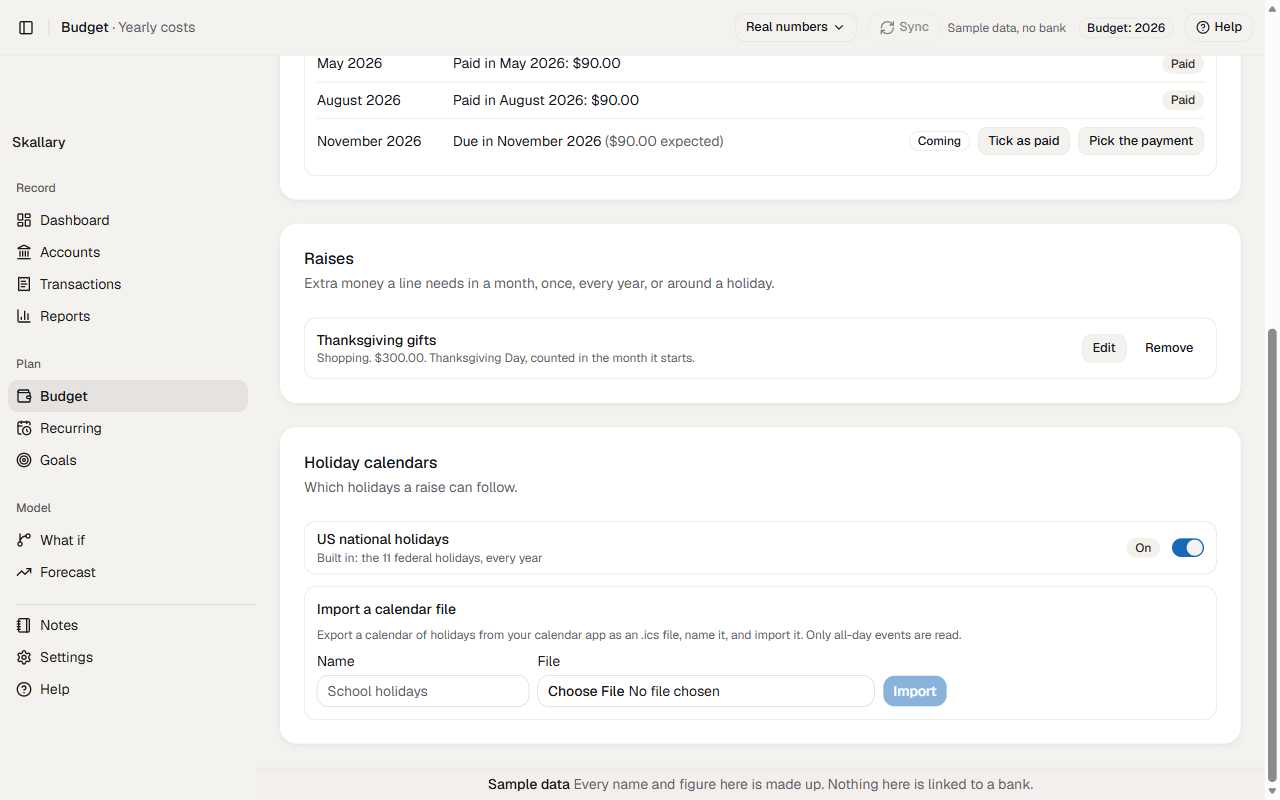
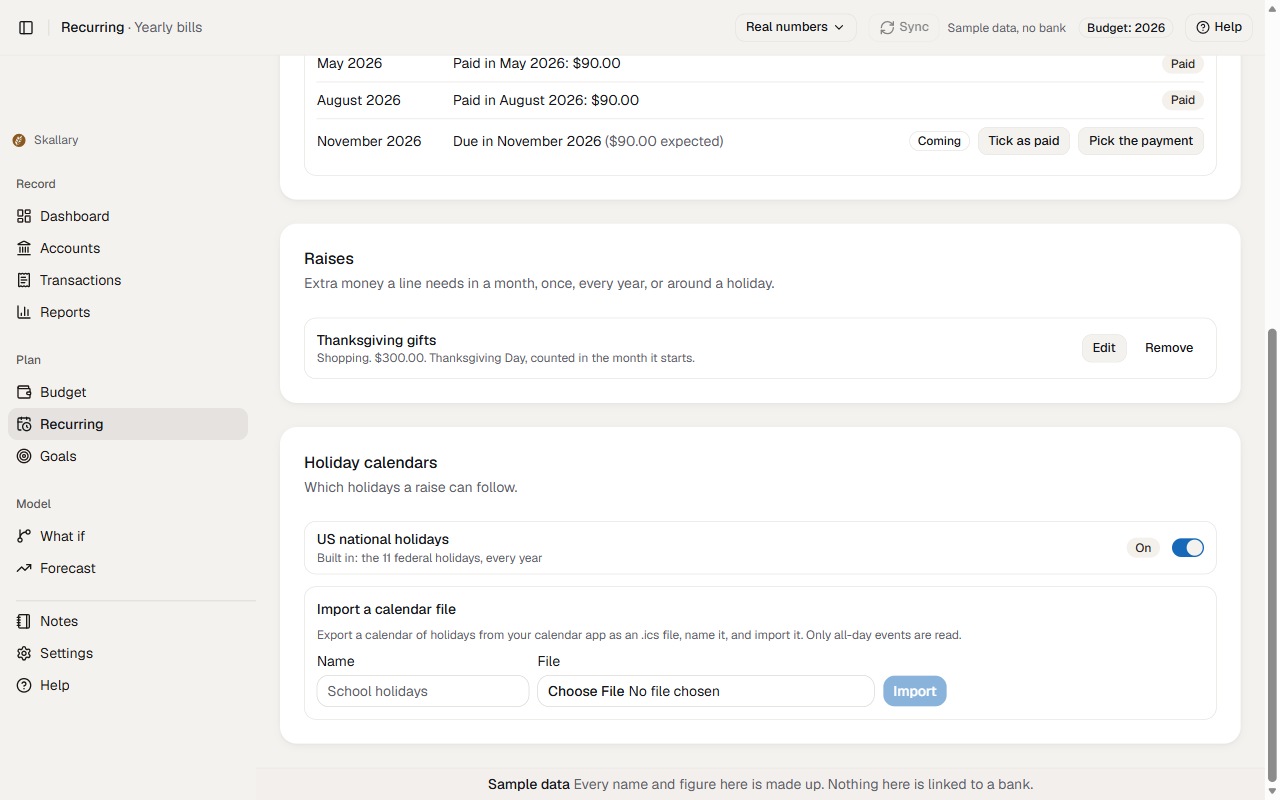
Move yearly bills to the Recurring screen

diff --git a/src/ui/shell/nav.ts b/src/ui/shell/nav.ts
@@ -88,12 +88,21 @@ export const NAV: NavItem[] = [
       // Month replaces the old Table; old #/budget/table links land here.
       { id: "month", label: "Month" },
       { id: "year", label: "Year" },
-      { id: "yearly", label: "Yearly costs" },
       { id: "charts", label: "Charts" },
     ],
   },
   // Bills became Recurring. Old links land here (ROUTE_ALIASES).
-  { id: "recurring", label: "Recurring", icon: CalendarClockIcon, group: "plan" },
+  {
+    id: "recurring",
+    label: "Recurring",
+    icon: CalendarClockIcon,
+    group: "plan",
+    tabs: [
+      { id: "charges", label: "Charges" },
+      // Yearly bills moved here from Budget (old #/budget/yearly links land here, see TAB_ALIASES).
+      { id: "yearly", label: "Yearly bills" },
+    ],
+  },
   {
     id: "goals",
     label: "Goals",
@@ -179,6 +188,11 @@ export const ROUTE_ALIASES: Record<string, Route> = {
   bills: { section: "recurring", tab: null },
 };
 
+/** Tabs that moved to another screen: "section.tab" to where it lives now. */
+export const TAB_ALIASES: Record<string, Route> = {
+  "budget.yearly": { section: "recurring", tab: "yearly" },
+};
+
 /**
  * Validate and repair a route.
  *
@@ -188,7 +202,7 @@ export const ROUTE_ALIASES: Record<string, Route> = {
  * something real rather than a blank body.
  */
 export function resolveRoute(original: Route): { item: NavItem; tab: NavTab | null } {
-  const route = ROUTE_ALIASES[original.section] ?? original;
+  const route = TAB_ALIASES[`${original.section}.${original.tab}`] ?? ROUTE_ALIASES[original.section] ?? original;
   const item = findNav(route.section) ?? findNav(DEFAULT_SECTION) ?? NAV[0];
   if (!item.tabs || item.tabs.length === 0) return { item, tab: null };
   const tab = item.tabs.find((t) => t.id === route.tab) ?? item.tabs[0];

diff --git a/src/ui/shell/AppShell.tsx b/src/ui/shell/AppShell.tsx
@@ -335,7 +335,8 @@ function MainShell() {
                 </div>
               )}
               {section === "reports" && (subPage?.page === "merchant" ? <MerchantPage /> : <ReportsSection />)}
-              {section === "recurring" && <BillsSection />}
+              {section === "recurring" && tabId === "charges" && <BillsSection />}
+              {section === "recurring" && tabId === "yearly" && <YearlyCostsTab planId={plan.planId} onChanged={plan.refresh} />}
               {section === "transactions" && (() => {
                 // The router strips the hash query from the tab, so a ledger
                 // link (a summed figure on another screen, clicked through to
@@ -366,8 +367,7 @@ function MainShell() {
                 <BudgetMonth planId={plan.planId} onChanged={plan.refresh} startSetup={hashQuery().get("setup") === "1"} />
               )}
               {section === "budget" && tabId === "year" && <BudgetYear planId={plan.planId} onChanged={plan.refresh} />}
-              {section === "budget" && tabId === "yearly" && <YearlyCostsTab planId={plan.planId} onChanged={plan.refresh} />}
-              {section === "budget" && tabId === "charts" && <Charts planId={plan.planId} />}
+                            {section === "budget" && tabId === "charts" && <Charts planId={plan.planId} />}
               {/* Forecast: the Runway screen, renamed; the component keeps its file name. */}
               {section === "forecast" && <RunwayOverview planId={plan.planId} scenario={plan.scenario} whatIf={plan.activeWhatIf} goals={plan.goals} salaryAssumptions={plan.salaryAssumptions} />}
               {section === "goals" && tabId === "goals" && <GoalsSection planId={plan.planId} onBudgetChanged={plan.refresh} onGoalsChanged={plan.refreshWhatIfs} />}

diff --git a/src/ui/dashboard/YearlyHeadsUp.tsx b/src/ui/dashboard/YearlyHeadsUp.tsx
@@ -1,6 +1,6 @@
 // src/ui/dashboard/YearlyHeadsUp.tsx -- the Dashboard's heads-up on yearly costs: what needs a look this month
 // and next (a bill to answer about, one that is late or part paid, a new amount, a holiday calendar running out,
-// a bill or raise coming). Nothing shows when there is nothing to look at. Each line opens Budget, Yearly costs
+// a bill or raise coming). Nothing shows when there is nothing to look at. Each line opens Recurring, Yearly bills
 // at that bill, raise or calendar.
 import { useEffect, useState } from "react";
 import { Card, CardContent, CardHeader, CardTitle } from "@/components/ui/card";
@@ -10,9 +10,9 @@ import type { HeadsUpItem } from "../../domain/yearly-heads-up";
 import { getHeadsUpUI } from "../lib/db-yearly";
 
 export function headsUpHref(i: HeadsUpItem): string {
-  if (i.billId !== undefined) return `#/budget/yearly?bill=${i.billId}`;
-  if (i.raiseId !== undefined) return `#/budget/yearly?raise=${i.raiseId}`;
-  return `#/budget/yearly?calendar=${encodeURIComponent(i.calendarId ?? "")}`;
+  if (i.billId !== undefined) return `#/recurring/yearly?bill=${i.billId}`;
+  if (i.raiseId !== undefined) return `#/recurring/yearly?raise=${i.raiseId}`;
+  return `#/recurring/yearly?calendar=${encodeURIComponent(i.calendarId ?? "")}`;
 }
 
 export default function YearlyHeadsUp() {
@@ -26,7 +26,7 @@ export default function YearlyHeadsUp() {
   return (
     <Card data-testid="yearly-heads-up">
       <CardHeader>
-        <CardTitle>Yearly costs to look at</CardTitle>
+        <CardTitle>Yearly bills to look at</CardTitle>
       </CardHeader>
       <CardContent>
         <ul className="flex flex-col divide-y">

diff --git a/tests/ui/help.test.tsx b/tests/ui/help.test.tsx
@@ -40,11 +40,11 @@ describe("HelpPanel (the ? in the header)", () => {
 
   test("it stays open and follows you: moving to another screen swaps the article in place", async () => {
     const forecast = helpByKey("forecast")!;
-    const bills = helpByKey("recurring")!;
+    const bills = helpByKey("recurring.charges")!;
     const { getByRole, findByText, queryByText, rerender } = render(<HelpPanel sectionId="forecast" tabId={null} />);
     fireEvent.click(getByRole("button", { name: "Help for this screen" }));
     await findByText(forecast.purpose);
-    rerender(<HelpPanel sectionId="recurring" tabId={null} />);
+    rerender(<HelpPanel sectionId="recurring" tabId="charges" />);
     await findByText(bills.purpose);
     expect(queryByText(forecast.purpose)).toBeNull();
     // Pressing Help again closes it.
@@ -86,7 +86,7 @@ describe("HelpSection (the manual in the sidebar)", () => {
     // Budget: Year is a 21st screen.
     // Accounts' two tabs became one page, so 20 screens.
     // C6: Settings: Appearance makes 21.
-    // A6: Settings: Household makes 22, and Budget: Yearly costs 23.
+    // A6: Settings: Household makes 22, and Budget: Yearly costs 23, which moved to Recurring: Yearly bills (Recurring now has two tabs, so still 24).
     expect(links.length).toBe(24 + 1 + 2);
     expect(links.map((l) => l.textContent)).toEqual(expect.arrayContaining(["Settings: Merchants", "Reports: Merchant"]));
     expect(links.map((l) => l.textContent)).toContain("What if");

diff --git a/src/ui/holidays/HolidaysStep.tsx b/src/ui/holidays/HolidaysStep.tsx
@@ -1,5 +1,5 @@
 // src/ui/holidays/HolidaysStep.tsx -- the first-run interview's holidays step, and (as HolidayCalendars) the
-// Holiday calendars section of Budget, Yearly costs. Holidays place raises that depend on one: the built-in
+// Holiday calendars section of Recurring, Yearly bills. Holidays place raises that depend on one: the built-in
 // US national holidays can be switched on, and a calendar file (.ics) from any calendar app can be imported
 // for the rest. A calendar that is switched off is never used. Changes are saved as they are made.
 import { useCallback, useEffect, useRef, useState, type JSX } from "react";
@@ -148,7 +148,7 @@ export default function HolidaysStep({ onDone, onSkip }: SetupStepProps): JSX.El
       <p className="text-sm text-muted-foreground">
         Some yearly costs follow a holiday, like gifts or a trip. If you want to plan for those, switch on the US national
         holidays, or import a calendar file for the holidays you keep. If not, leave them off and press Next. You can change
-        this later in Budget, Yearly costs.
+        this later in Recurring, Yearly bills.
       </p>
       <HolidayCalendars />
       <StepActions onNext={onDone} onSkip={onSkip} />

diff --git a/src/help/screens/yearly.ts b/src/help/screens/yearly.ts
@@ -1,10 +1,10 @@
-// Help for Budget, Yearly costs: bills that come once or a few times a year, raises, and holiday calendars.
+// Help for Recurring, Yearly bills: bills that come once or a few times a year, raises, and holiday calendars.
 import type { HelpScreen } from "../types";
 
 export const YEARLY_HELP: HelpScreen[] = [
   {
-    key: "budget.yearly",
-    title: "Budget: Yearly costs",
+    key: "recurring.yearly",
+    title: "Recurring: Yearly bills",
     depth: "short",
     purpose: "The bills that come once or a few times a year, and the raises you plan for a month or a holiday, so the budget sets money aside before they arrive.",
     answers: "Which yearly bills and raises is the budget planning for, and does any need an answer from you?",

diff --git a/src/help/screens/short.ts b/src/help/screens/short.ts
@@ -268,8 +268,8 @@ export const SHORT_HELP: HelpScreen[] = [
     ],
   },
   {
-    key: "recurring",
-    title: "Recurring",
+    key: "recurring.charges",
+    title: "Recurring: Charges",
     depth: "short",
     purpose: "Which charges repeat and how often, what this month or next still has to come, what was already paid, and whether the budget plans for them. You can correct the list: Not recurring hides a charge, and Mark as recurring on Transactions adds one the app missed, as does ticking This repeats when you file a charge.",
     answers: "What is charged regularly, and what is still due this month?",

diff --git a/src/ui/yearly/YearlyCostsTab.tsx b/src/ui/yearly/YearlyCostsTab.tsx
@@ -1,4 +1,4 @@
-// src/ui/yearly/YearlyCostsTab.tsx -- Budget, Yearly costs: the bills that come once or a few times a year, what is
+// src/ui/yearly/YearlyCostsTab.tsx -- Recurring, Yearly bills: the bills that come once or a few times a year, what is
 // raised for a month or a holiday, and the holiday calendars. Each bill shows this year's due dates with where it
 // stands in words, and the things you can do about it. Nothing here changes your budget until you press a button.
 // Registry search (2026-11-22, shadcnblocks, shadcn-studio, react-bits: "list", "dialog", "alert"): nothing fits a

diff --git a/tests/help/content.test.ts b/tests/help/content.test.ts
@@ -42,7 +42,7 @@ describe("help coverage", () => {
   // Ui-look: Accounts' two tabs became one page, so 21 screens became 20.
   // C6: Settings gained an Appearance tab, so 20 became 21.
   // A6: Settings gained a Household tab, so 21 screens became 22.
-  // Budget gained a Yearly costs tab, so 22 screens became 23.
+  // Budget gained a Yearly costs tab, so 22 screens became 23. It then moved to Recurring, so the count stays.
   test("the app has 24 screens and every one has a help article", () => {
     const keys = navScreenKeys();
     expect(keys).toHaveLength(24);

diff --git a/tests/ui/nav.test.ts b/tests/ui/nav.test.ts
@@ -57,6 +57,12 @@ describe("NAV", () => {
     expect(resolveRoute({ section: "bills", tab: null }).item.id).toBe("recurring");
   });
 
+  test("the old Budget, Yearly costs link lands on Recurring, Yearly bills", () => {
+    const { item, tab } = resolveRoute({ section: "budget", tab: "yearly" });
+    expect(item.id).toBe("recurring");
+    expect(tab?.id).toBe("yearly");
+  });
+
   // Balances and Net worth became one page.
   test("Accounts is one page with no tabs; Net worth is not its own entry", () => {
     expect(findNav("networth")).toBeUndefined();

diff --git a/tests/help/lane2-help.test.ts b/tests/help/lane2-help.test.ts
@@ -8,7 +8,7 @@ import { SHORT_HELP } from "../../src/help/screens/short";
 
 const dashboard = DASHBOARD_HELP[0];
 const all = SHORT_HELP.find((s) => s.key === "transactions.all")!;
-const recurring = SHORT_HELP.find((s) => s.key === "recurring")!;
+const recurring = SHORT_HELP.find((s) => s.key === "recurring.charges")!;
 const text = (x: unknown) => JSON.stringify(x);
 
 test("the Dashboard's numbers are explained in the order the screen shows them", () => {

diff --git a/README.md b/README.md
@@ -116,9 +116,9 @@ After the first link, you can press **Sync** at the top of any screen to bring i
 
 ## Yearly bills and raises
 
-Some costs come once or a few times a year: car insurance, a water bill every three months, a membership. Others make one month cost more, like gifts in the holiday season. Open **Budget**, then the **Yearly costs** tab.
+Some costs come once or a few times a year: car insurance, a water bill every three months, a membership. Others make one month cost more, like gifts in the holiday season. Open **Recurring**, then the **Yearly bills** tab.
 
-![The Yearly costs screen](docs/images/yearly-costs.png)
+![The Yearly bills tab](docs/images/yearly-costs.png)
 
 - **Add a yearly bill.** Name it, pick the budget line it belongs to, and say the amount and the months it is due. The app plans for it in those months and marks it paid when it sees the payment in your bank.
 - **Add a raise.** A raise is extra money a budget line needs. Pick the line and the amount, then choose when: once in a month, every year in a month, or around a holiday. A raise tied to a holiday repeats every year and moves with the holiday's month by itself. A holiday that spans two months counts in the month it starts, unless you change that.
@@ -147,16 +147,16 @@ It is an estimate, not tax advice, and it will not match your return. State tax 
 
 Some of your costs follow holidays. The app knows holidays in two ways.
 
-- **US national holidays** are built in. They are the 11 federal holidays, and they come from fixed rules, so they never run out. Switch them on in the Holidays step, or later on the **Yearly costs** tab under "Holiday calendars".
+- **US national holidays** are built in. They are the 11 federal holidays, and they come from fixed rules, so they never run out. Switch them on in the Holidays step, or later on the **Yearly bills** tab of Recurring under "Holiday calendars".
 - **Any other calendar** comes from a file you choose. The app never goes online to fetch a calendar. It reads a file from your computer. The file must be an `.ics` file, which is the standard calendar file format. Each all-day entry in it becomes a named holiday on its date.
 
-![Holiday calendars on the Yearly costs screen](docs/images/holidays.png)
+![Holiday calendars on the Yearly bills tab](docs/images/holidays.png)
 
 ### Worked example: the Jewish holidays
 
 1. In your browser, go to https://www.hebcal.com, a free site for Jewish calendars. Find its holidays section and its option to download a calendar file. The site changes its layout from time to time, so look for words like "Download" and "iCalendar" or ".ics".
 2. Choose the holidays you want and a range of years that covers the next few years. Download the file. It ends in `.ics`.
-3. In the app, open **Budget**, then **Yearly costs**, and find **Holiday calendars**.
+3. In the app, open **Recurring**, then **Yearly bills**, and find **Holiday calendars**.
 4. Under **Import a calendar file**, type a name such as "Jewish holidays". Choose the `.ics` file you downloaded, then import it.
 5. The new calendar appears in the list with the dates it covers. Make sure its switch is on.
 6. Now add a raise and choose one of those holidays. It follows the holiday's date every year for as long as the file covers.
